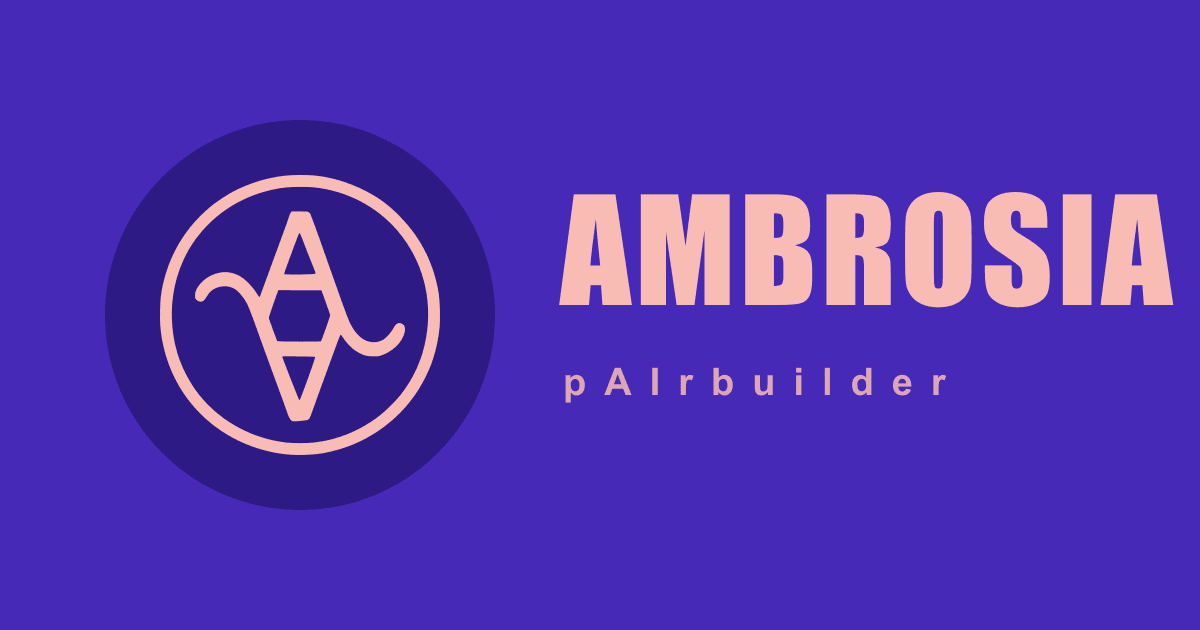
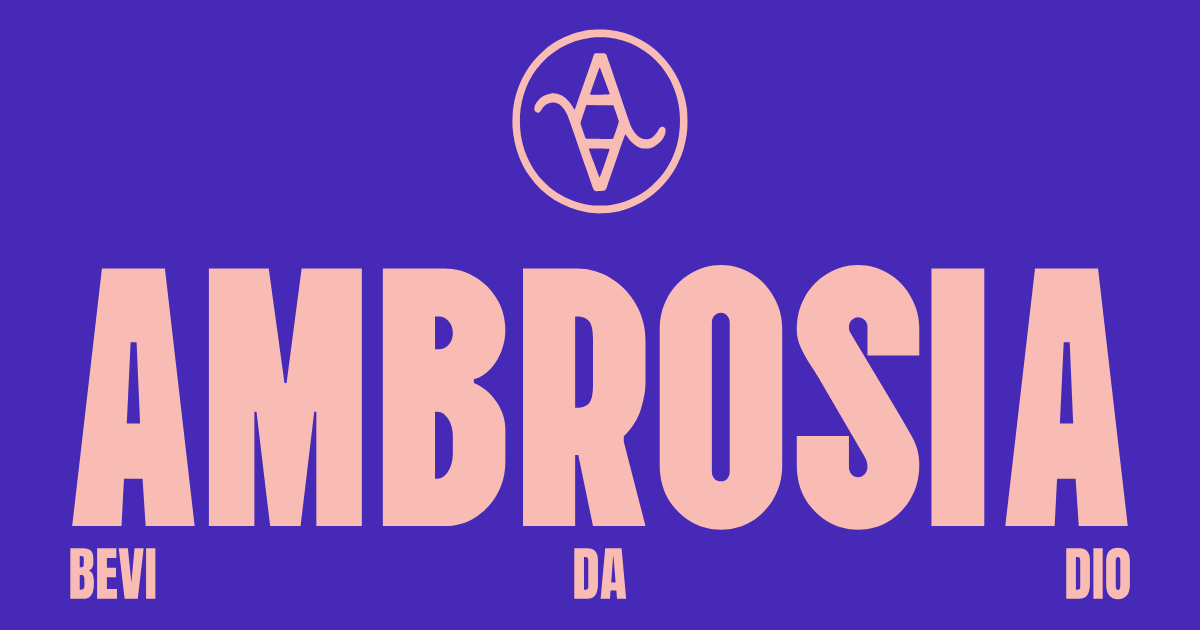
og: nuovo brand asset (cerchio AV + AMBROSIA + BEVI/DA/DIO Vina Sans)
Stesso asset adottato in hub/winelist per coerenza network:
cerchio AV piccolo top center, AMBROSIA dominante al centro, "BEVI · DA
· DIO" tracked sotto il wordmark in Vina Sans (path canonici da
bevidadiologo.svg, no font dependency).

Description allineata al brand statement (ex pAIrbuilder-specifico
"Abbinamenti AI vino/cibo..." → brand generic):
- "Ambrosia - Tecnologie intelligenti per il vino"

PNG 1200x630 (30 KB) rasterizzato dal SVG sorgente.

diff --git a/index.html b/index.html
@@ -5,7 +5,7 @@
     <meta name="viewport" content="width=device-width, initial-scale=1.0" />
     <meta name="theme-color" content="#4629B7" />
     <title>pAIrbuilder · Ambrosia — Abbinamenti vino/cibo con AI</title>
-    <meta name="description" content="pAIrbuilder è il generatore AI di abbinamenti vino, birra e spirits per ristoranti. Carica il menu cibo e la carta drink, ricevi gli abbinamenti ottimali esportabili in PDF." />
+    <meta name="description" content="Ambrosia - Tecnologie intelligenti per il vino" />
 
     <!-- Favicon: cerchio viola + marchio A Ambrosia (28 mag 2026, aggiunto
          insieme a hub/winelist/experience per coerenza ecosistema). -->
@@ -14,14 +14,14 @@
     <!-- Open Graph -->
     <meta property="og:type" content="website" />
     <meta property="og:title" content="pAIrbuilder · Ambrosia" />
-    <meta property="og:description" content="Abbinamenti AI vino/cibo per ristoranti. Carica il menu, ottieni gli abbinamenti, esporta in PDF." />
+    <meta property="og:description" content="Ambrosia - Tecnologie intelligenti per il vino" />
     <meta property="og:image" content="/images/og-cover.png" />
     <meta property="og:locale" content="it_IT" />
 
     <!-- Twitter -->
     <meta name="twitter:card" content="summary_large_image" />
     <meta name="twitter:title" content="pAIrbuilder · Ambrosia" />
-    <meta name="twitter:description" content="Abbinamenti AI vino/cibo per ristoranti." />
+    <meta name="twitter:description" content="Ambrosia - Tecnologie intelligenti per il vino" />
     <meta name="twitter:image" content="/images/og-cover.png" />
 
     <!-- Cookie banner shared cross-sottodominio (Ambrosia ecosystem)